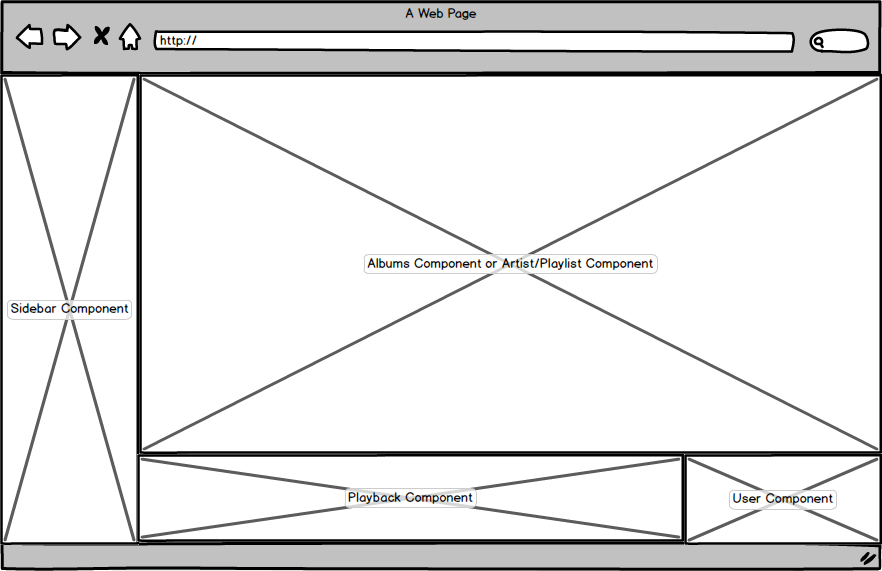
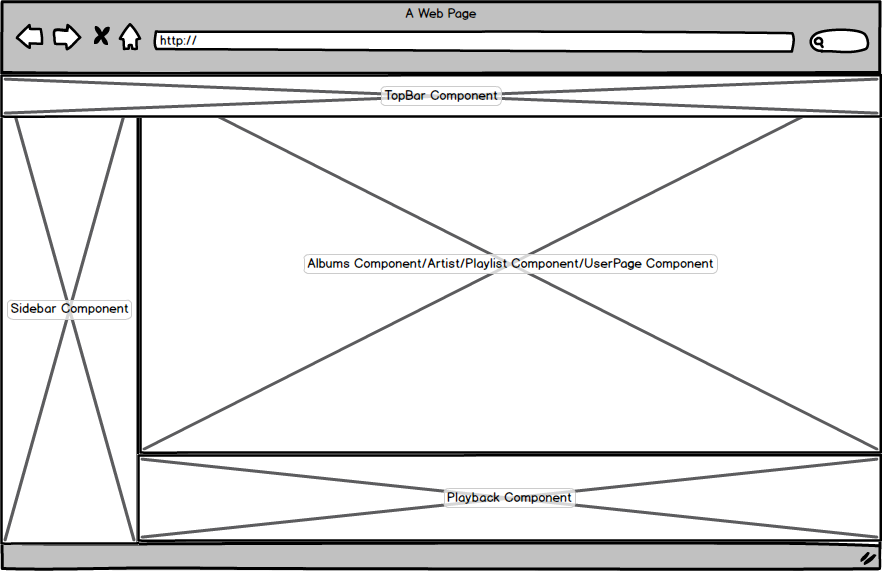
Update wireframes

diff --git a/docs/README.md b/docs/README.md
@@ -40,20 +40,20 @@ BeaTify is a web application inspired by Spotify built using Ruby on Rails and R
 
 ### Phase 2: Playlists Model, API, and components (2 days)
 
-**Objective:** Playlists can be created, played, edited and destroyed through the API.
+**Objective:** Playlists can be created, edited and destroyed through the API.
 
-### Phase 3: Playlist sharing (2 days)
+### Phase 3: Song search (1 days)
 
-**Objective:** Playlists can be shared by URL and within the app.
+**Objective:** Songs can be found through a search box.
 
-### Phase 4: Drag and drop playlists (2 days)
+### Phase 4: Continuous play while navigating the site (2 days)
 
-Allow organization of playlists with mouse.
+Songs play and continue to play while visiting other parts of the app.
 
 ### Phase 5: Play queue (1 day)
 
 **Objective:** Add ability to queue songs to play not off of the same record.
 
 ### Bonus Features (TBD)
-- [ ] Users can add tags to tracks
-- [ ] Recommendations based on similar listening
+- [ ] Bonus: Radio (shuffle play)
+- [ ] Bonus: Explore Page
